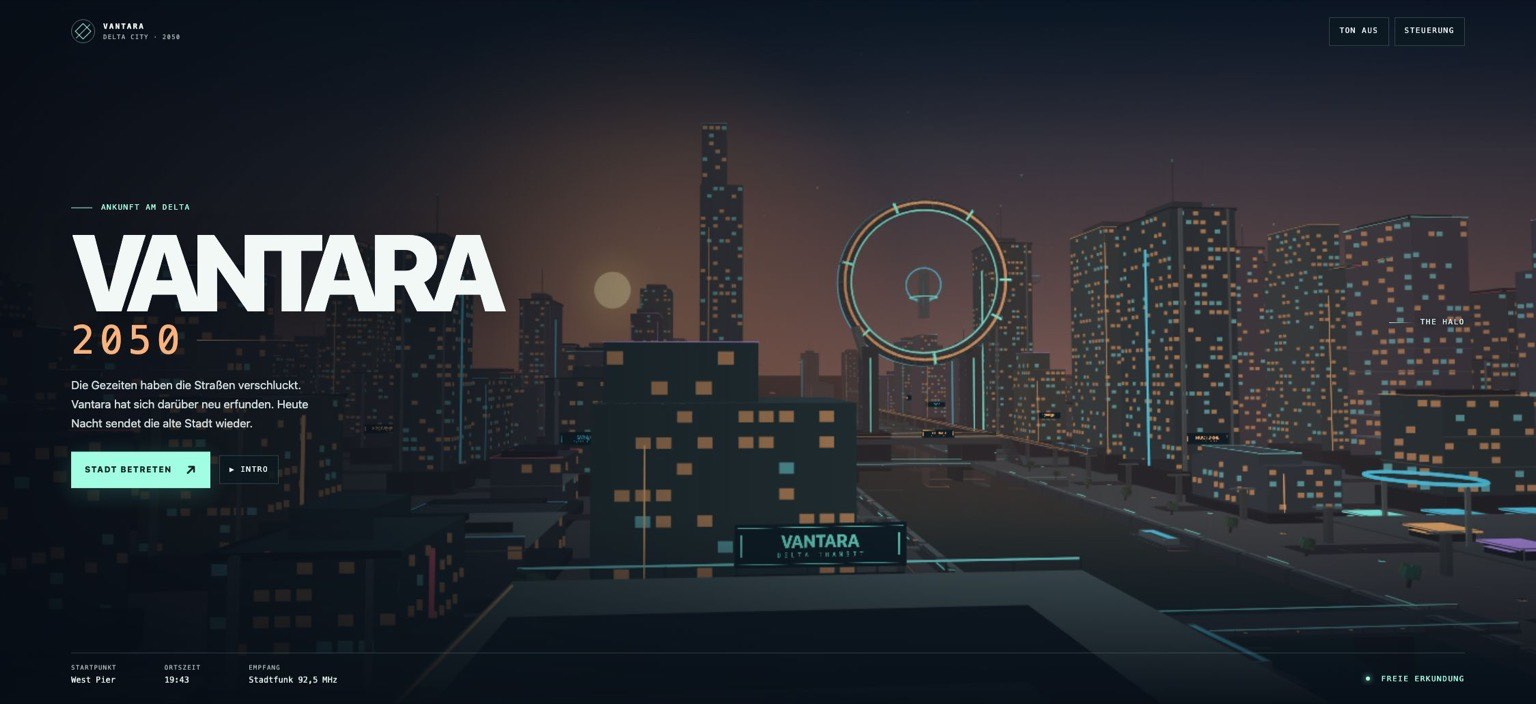
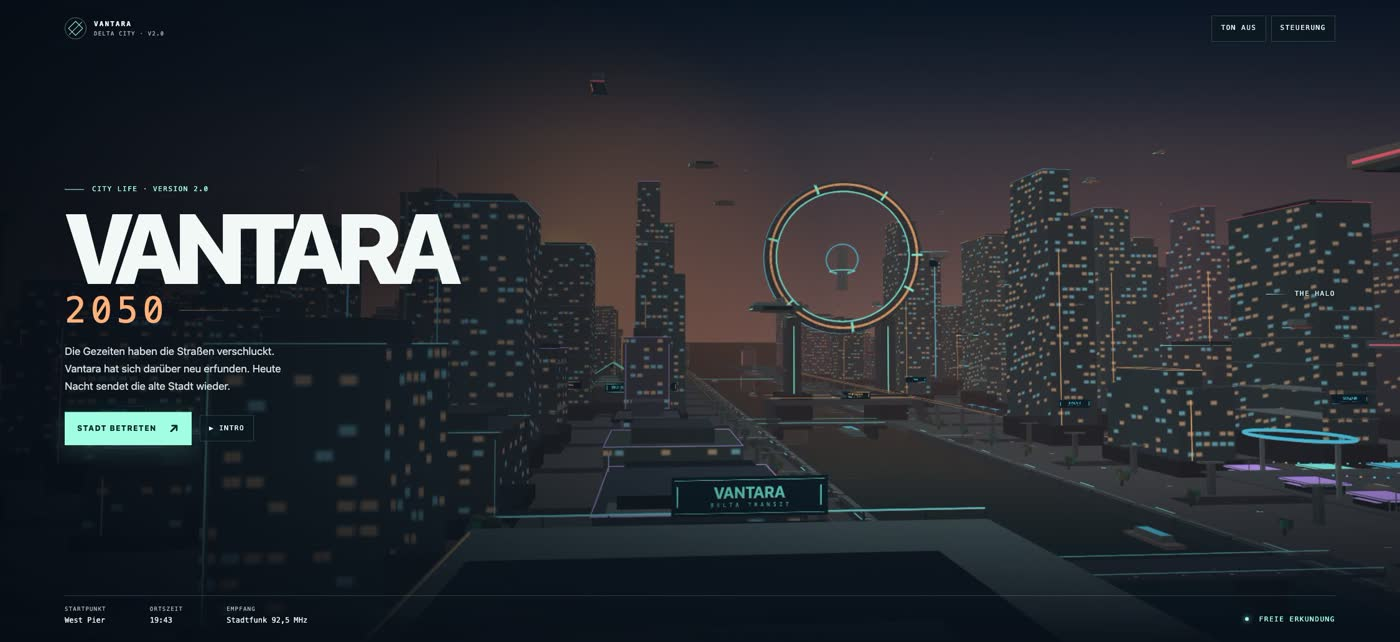
Show the streets of Vantara in the City Life release gallery

diff --git a/README.md b/README.md
@@ -1,36 +1,39 @@
-# VANTARA 2050
+# VANTARA 2050 · City Life 2.0
 
-[![VANTARA 2050 title screen with the Halo Ring at sunset](preview.jpg)](https://arnefranz-del.github.io/vantara-2050/)
+[![Vantara skyline at sunset](preview.jpg)](https://arnefranz-del.github.io/vantara-2050/)
 
-**[Play VANTARA 2050](https://arnefranz-del.github.io/vantara-2050/)**
+**[Play in your browser](https://arnefranz-del.github.io/vantara-2050/)** · [Release and offline HTML](https://github.com/arnefranz-del/vantara-2050/releases/tag/v2.0.0) · [21-second video tour](https://github.com/arnefranz-del/vantara-2050/releases/download/v2.0.0/VANTARA-City-Life.mp4)
 
 The tide took the streets. Vantara built over them. Tonight, the old city is broadcasting again.
 
-VANTARA 2050 is a browser-based 3D exploration game set in a waterfront megacity. Start at West Pier, walk the streets or glide across the delta, and tune in to six radio relays to hear what happened beneath the waterline. The city runs from a single self-contained HTML file.
+Walk out onto West Pier, follow the elevated railway to Lotus Exchange, or glide between the towers. Six radio relays carry stories from the people who stayed. The game and its interface are in German.
 
-## Play
+## What's moving in 2.0
 
-Open the live link above, or download [index.html](https://raw.githubusercontent.com/arnefranz-del/vantara-2050/main/index.html) and open it in a current browser. WebGL 2 provides the full effects, and a Canvas renderer keeps the city playable on machines without it. The file works offline. The intro, interface, and radio logs are in German. Touch controls appear on touch devices.
+- 178 residents walk circuits, browse market stalls, and gather on the riverfront and rooftops.
+- Cars and shuttles share the streets. Couriers, air taxis and freighters cross the delta on different routes while ferries leave wakes below.
+- At Lotus Exchange, lanterns hang over the food stalls and a formation of 19 light drones performs above the square.
+- Switch on **Ton** to hear the waterfront, market murmur, traffic and footsteps change as you move.
+- The WebGL 2 renderer sharpens the final image. The Canvas renderer also draws the new people, vehicles and events and supports a higher maximum resolution.
+
+![Lanterns and visitors at Lotus Exchange](lotus.jpg)
+
+## Play offline
+
+Download **VANTARA-2050-v2.0.html** from the release and open it in your browser. The game generates its own models, textures, movement and audio. No installation or network connection is needed. Discovered radio relays are saved locally when browser storage is available.
 
 | Control | Action |
 | --- | --- |
-| W A S D | Move |
-| Mouse or drag the view | Look around |
+| W A S D / mouse or drag | Move / look around |
 | Shift / Space | Sprint / jump |
-| F | Toggle glide mode |
-| Space / C in glide mode | Ascend / descend |
+| F | Toggle glide |
+| Space / C while gliding | Ascend / descend |
 | E | Read a nearby radio relay |
-| M | Open the map, set a waypoint, or fast-travel |
-| T | Cycle sunset, night, and morning |
-| Esc | Release the mouse, skip the intro, or close a panel |
+| M | Open the map, set a waypoint or fast-travel |
+| T | Cycle sunset, night and morning |
+| P | Cue the drone show at Lotus Exchange |
+| Esc | Release the mouse, skip the intro or close a panel |
 
-## The city
+For a quick visit, choose **Steuerung → Zur Drohnenshow** on the title screen. On touch devices, use the movement pad and swipe the view to turn.
 
-- **West Pier** · The arrival deck above the old shoreline.
-- **The Halo** · A tidal power ring suspended over the delta.
-- **Lotus Exchange** · A night market below the elevated transit line.
-- **Sky Gardens** · Rooftop greenhouses and a seed bank.
-- **Signal Spire** · A radio tower with a viewing platform.
-- **Undertow** · The pump district and its abandoned ferries.
-
-The city mesh, animated traffic, sky, water reflections, signage, and optional audio are generated in the browser. Discovered relays are saved locally when browser storage is available. There are no runtime libraries, network calls, or external assets.
+![A street-level view of the market](market-street.jpg)
